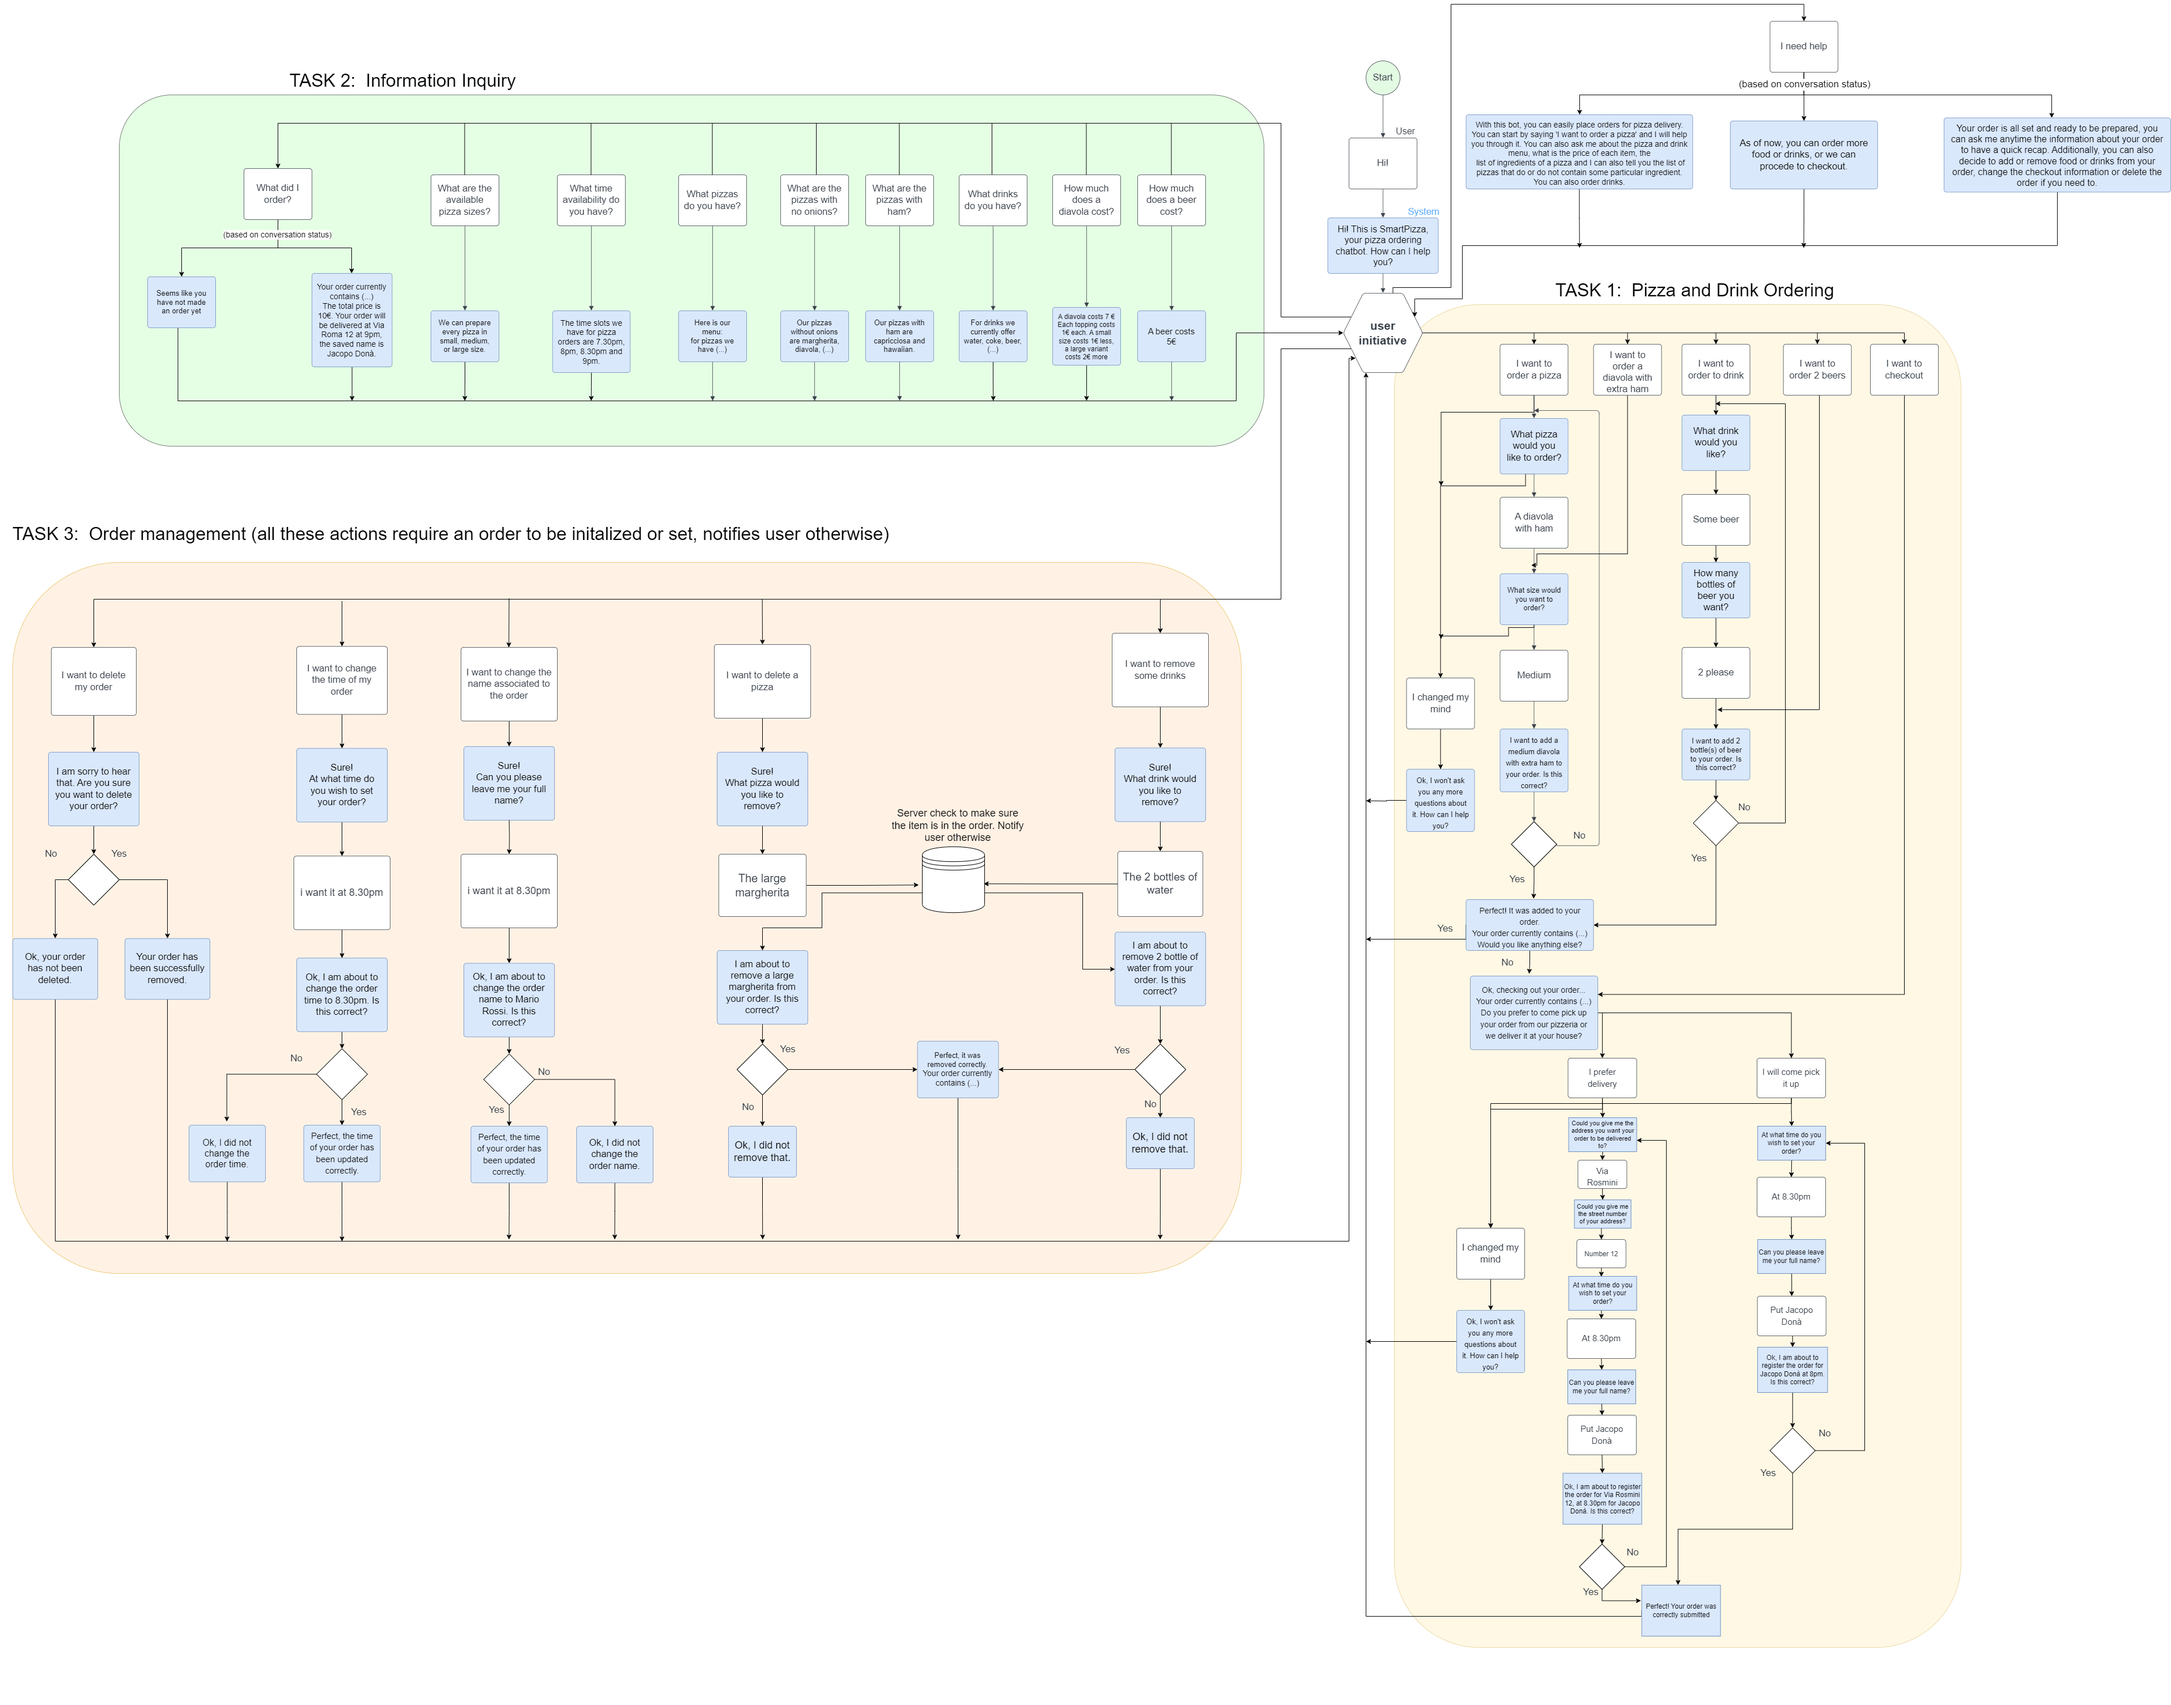
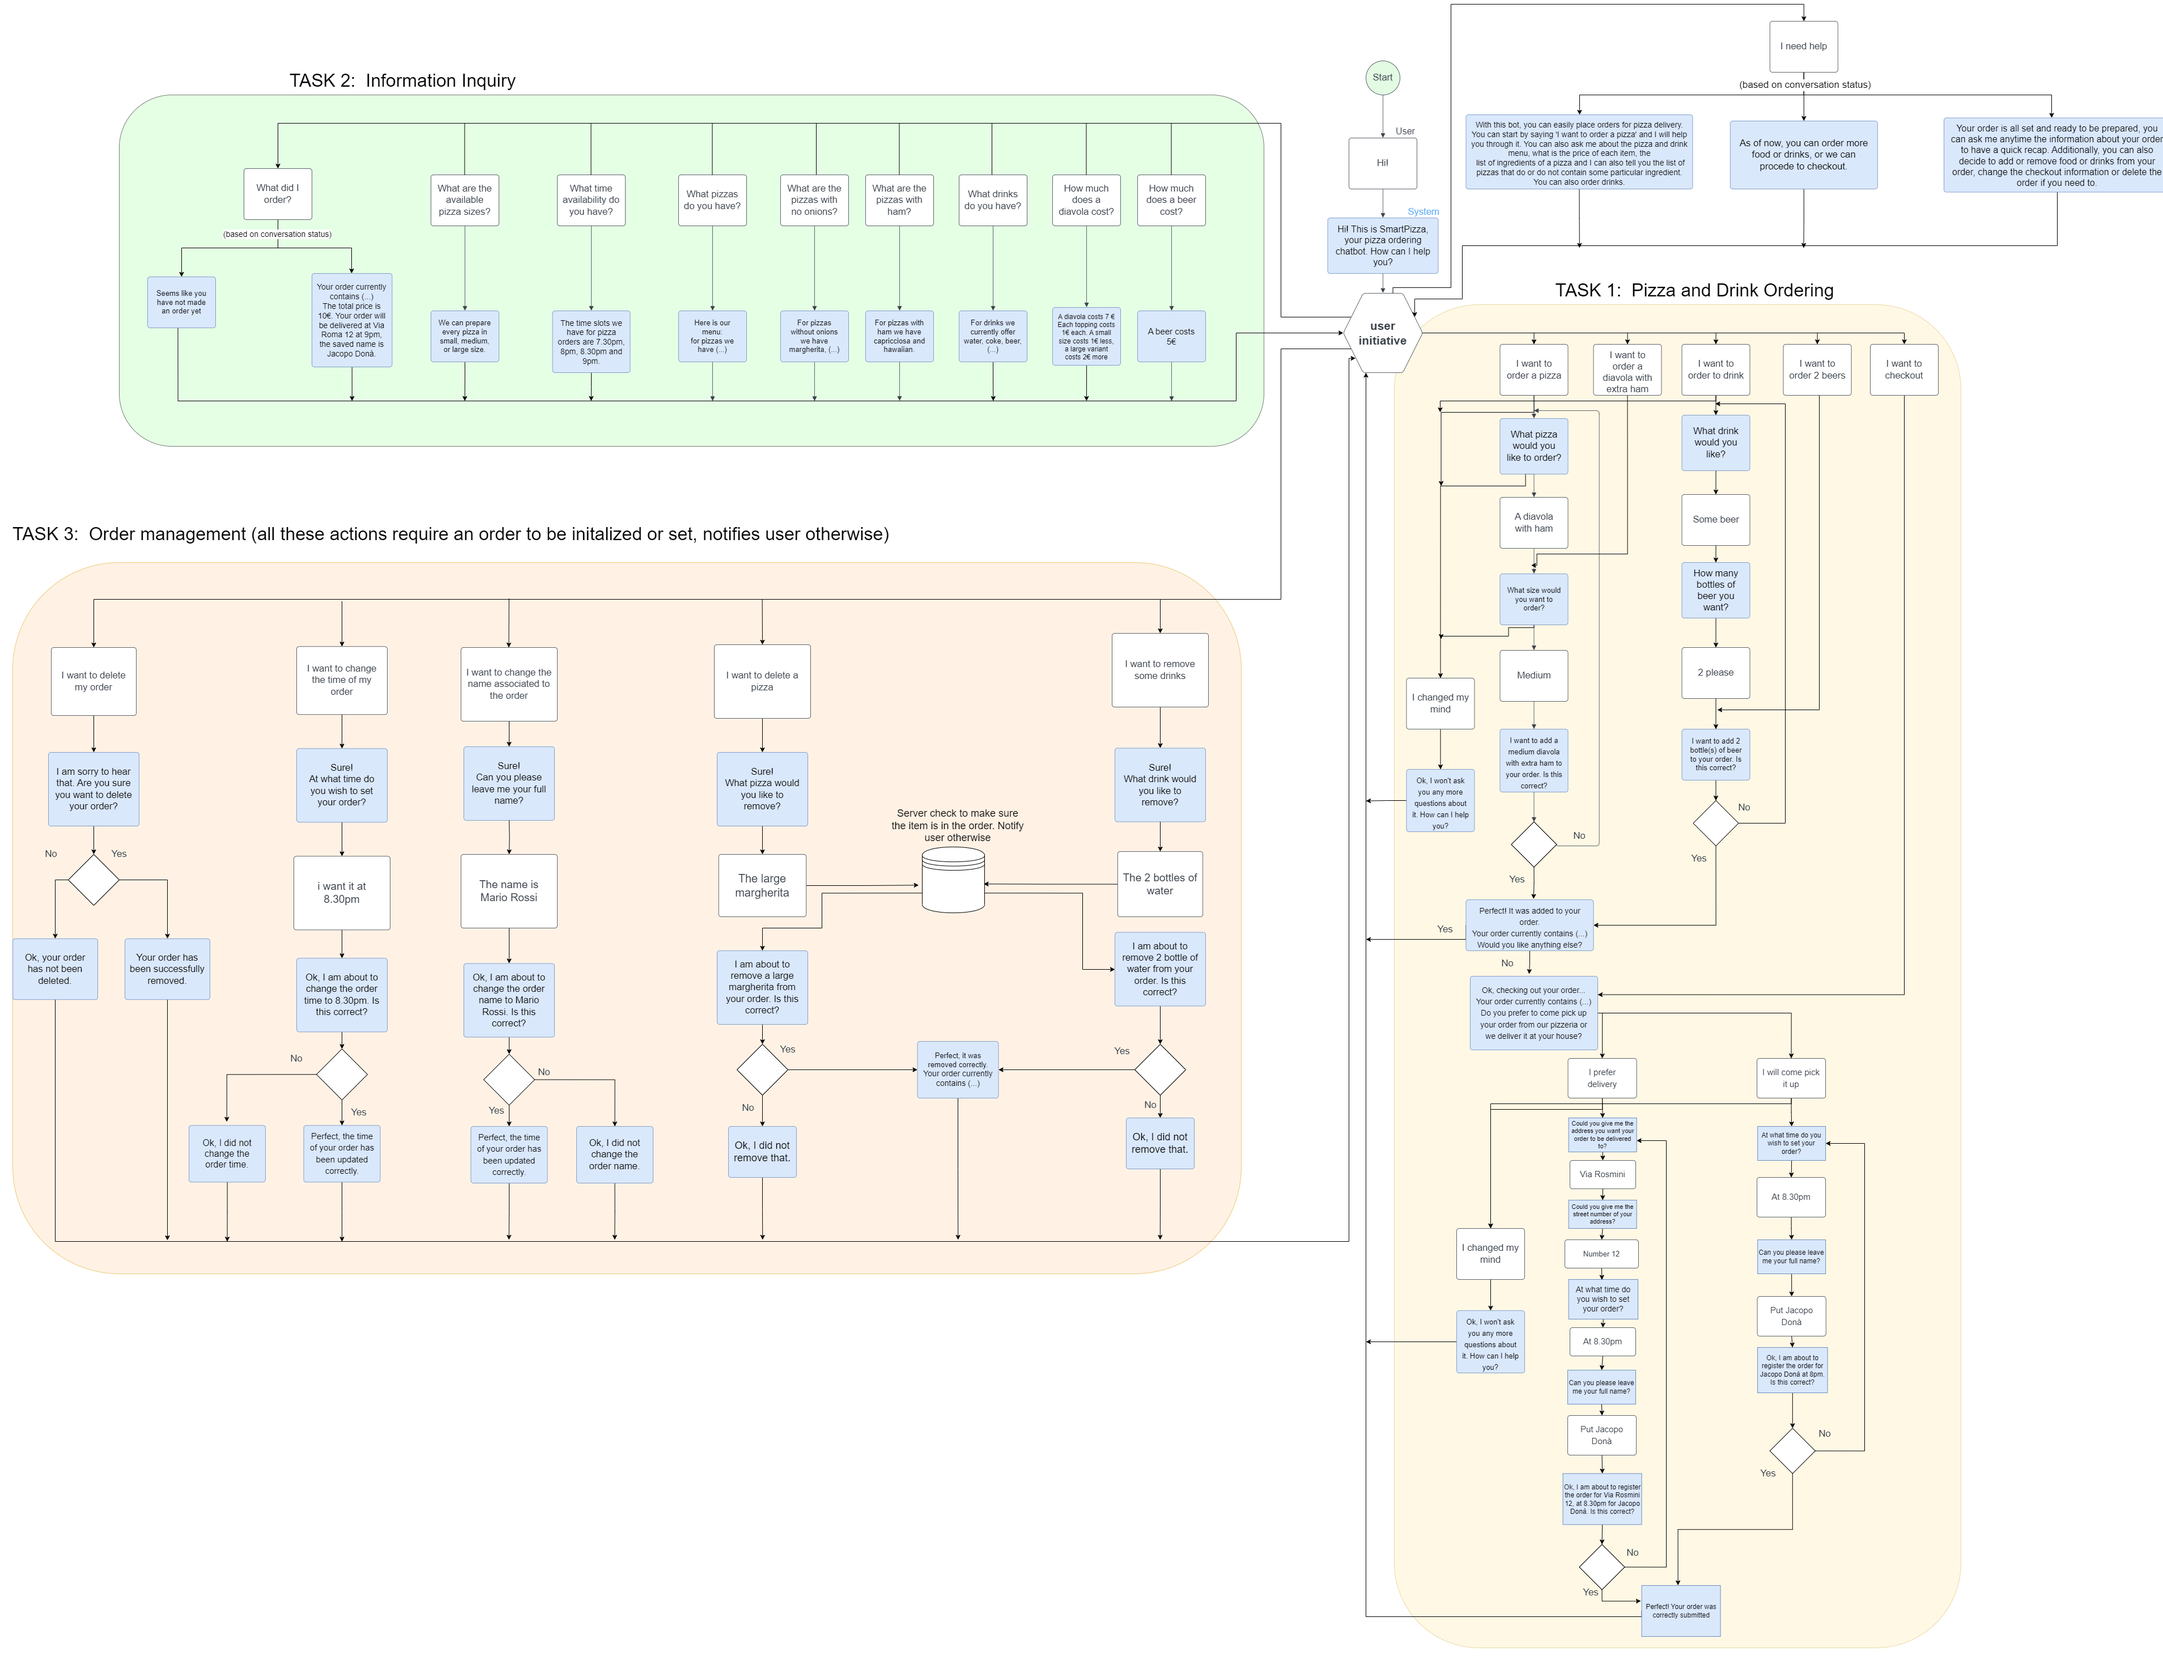
updated some responses

diff --git a/PizzaBot/actions/actions.py b/PizzaBot/actions/actions.py
@@ -377,7 +377,7 @@ class ActionTellPizzaWithoutIngredient(Action):
                         other_pizzas = ", ".join(pizza_names[:-2])
                         # Concatenate the two parts
                         response = other_pizzas + ", " + last_two_pizzas
-                    dispatcher.utter_message(f"Our pizzas without {ingredient} are {response}.")
+                    dispatcher.utter_message(f"For pizzas without {ingredient} we have {response}.")
                     return [SlotSet("ingredient",None)]
             else:
                 dispatcher.utter_message(f"We don't put {ingredient} in any pizza.")
@@ -416,7 +416,7 @@ class ActionTellPizzaWithIngredient(Action):
                         other_pizzas = ", ".join(pizza_names[:-2])
                         # Concatenate the two parts
                         response = other_pizzas + ", " + last_two_pizzas
-                    dispatcher.utter_message(f"Our pizzas with {ingredient} are {response}.")
+                    dispatcher.utter_message(f"For pizzas with {ingredient} we have {response}.")
                     return [SlotSet("ingredient",None)]
             else:
                 dispatcher.utter_message(f"We don't put {ingredient} in any pizza.")
@@ -950,7 +950,7 @@ class ActionResponseNegative(Action):
                     dispatcher.utter_message(text=message)
                     dispatcher.utter_message(response="utter_ask_delivery_method")
                 else: #User has just added an item to an order he already made and does not want anything else. Say goodbye
-                    dispatcher.utter_message(response="utter_goodbye")
+                    dispatcher.utter_message(text="Your order has been updated correctly. Thank you for choosing us.")
             elif (previous_action == 'utter_submit_pizza'):
                 dispatcher.utter_message(text="Ok, removing this last item.")
                 return[SlotSet("pizza_type",None),SlotSet("pizza_size",None),SlotSet("ingredient", None),FollowupAction("pizza_order_form")]
